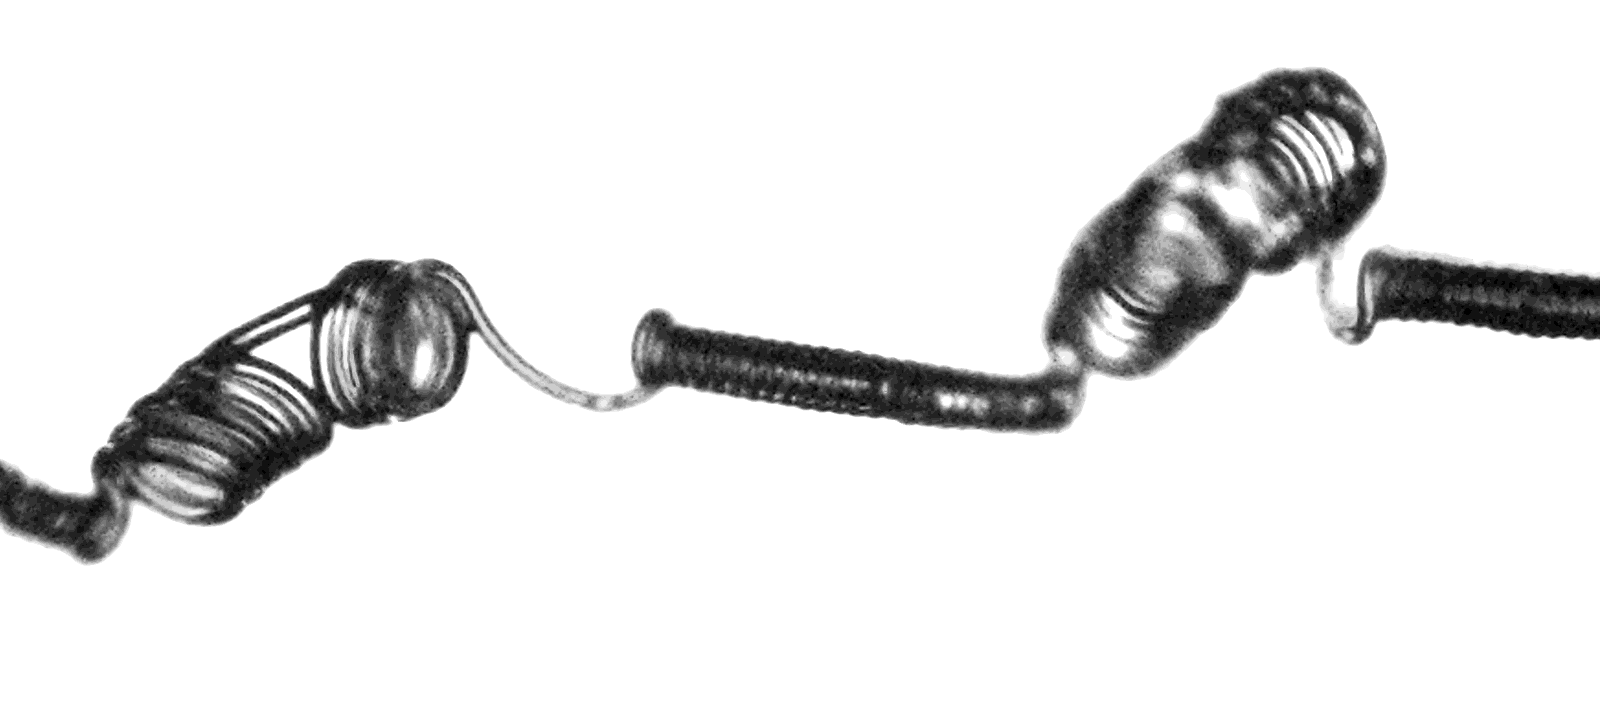
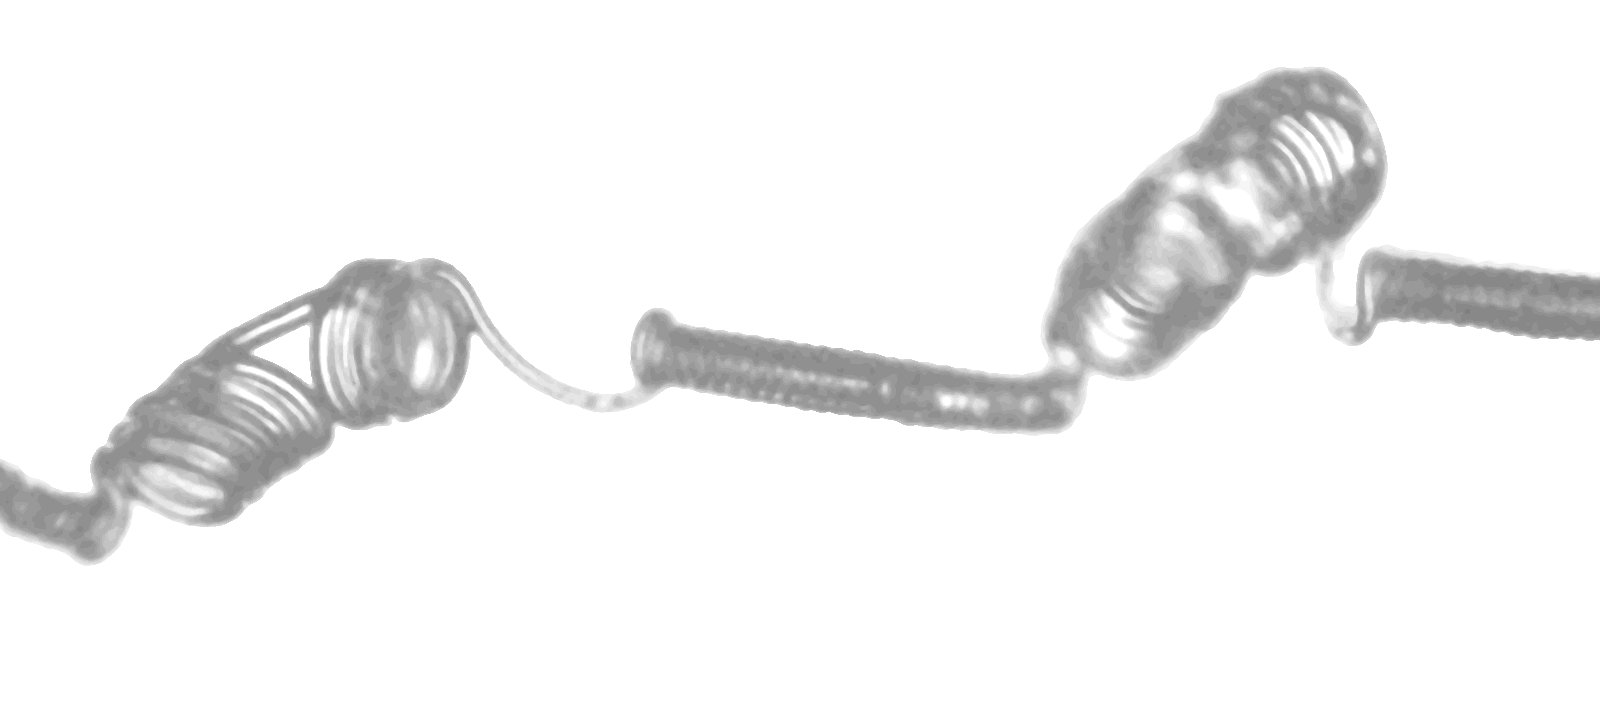
transp

Changed region(s): [[0.0, 0.0934, 1.0, 0.8091]]

diff --git a/content/home/experience.md b/content/home/experience.md
@@ -14,7 +14,7 @@ date_format = "Jan 2006"
 
 [design.background]
   image = "back.png" # Name of image in `static/img/`.
-  image_darken = 0.9 # Darken the image? Range 0-1 where 0 is transparent and 1 is opaque.
+  image_darken = 0 # Darken the image? Range 0-1 where 0 is transparent and 1 is opaque.
   image_size = "cover" #  Options are cover|contain|initial
   image_position = "center"  # Options include `left`, `center` (default), or `right`.
   image_parallax = true  # Use a fun parallax-like fixed background effect? true/false
